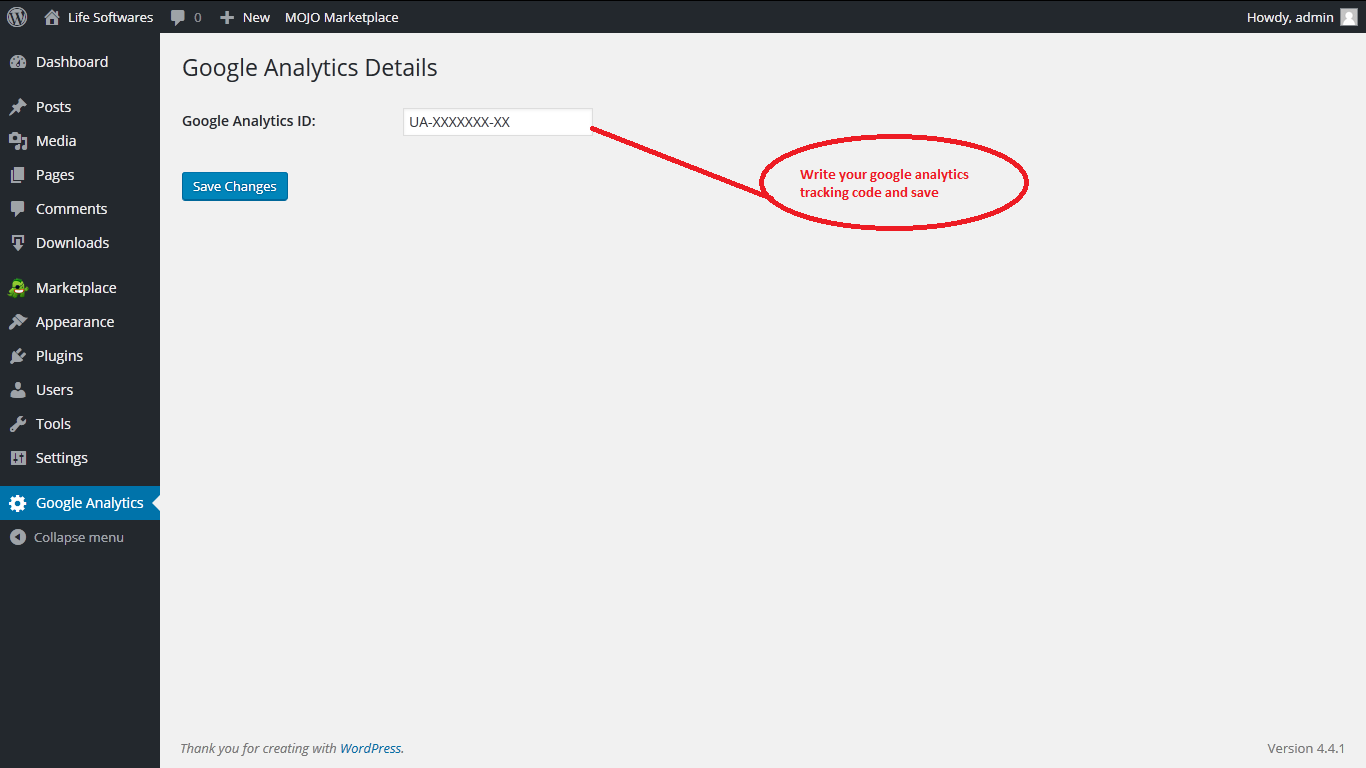
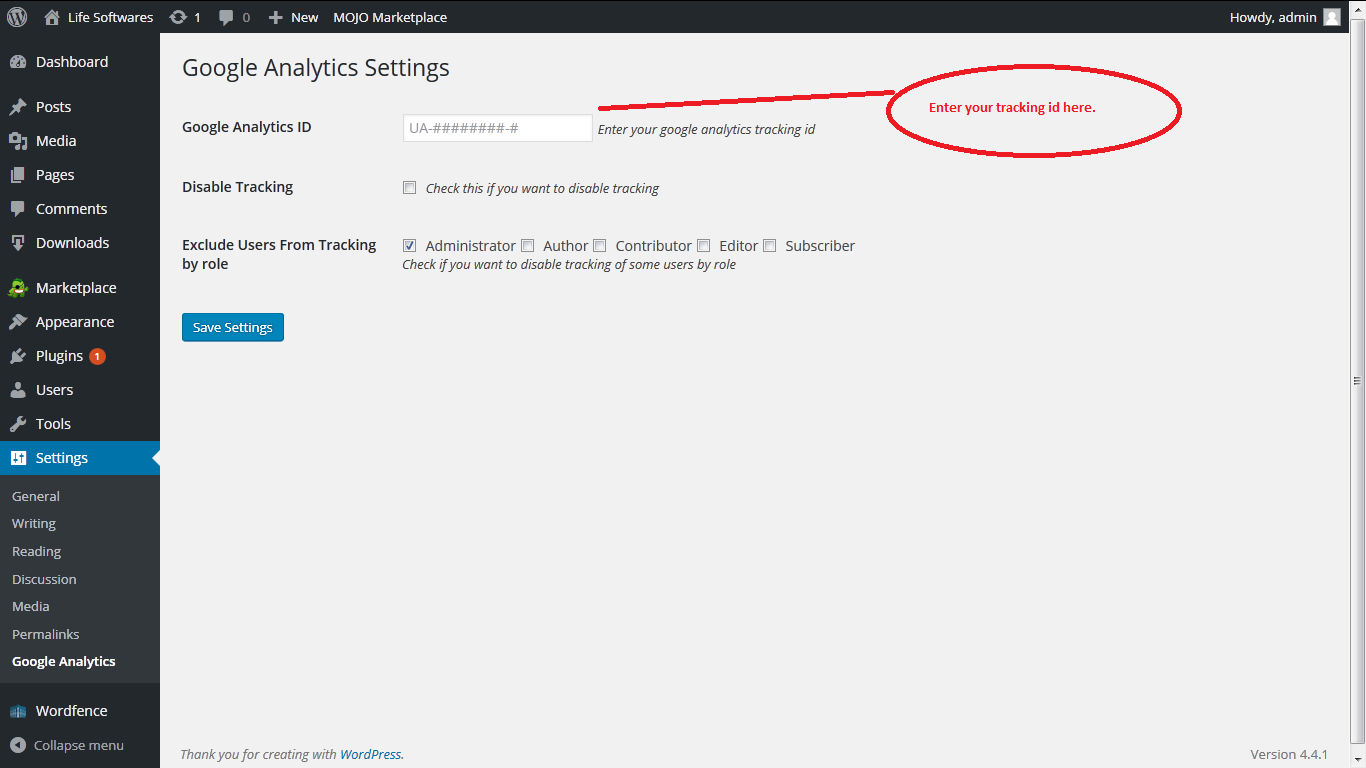
Update
git-svn-id: https://plugins.svn.wordpress.org/pc-google-analytics/trunk@1340473 b8457f37-d9ea-0310-8a92-e5e31aec5664

diff --git a/pc-google-analytics.php b/pc-google-analytics.php
@@ -1,77 +1,109 @@
 <?php
 /**
- * Plugin Name: Google Analytics
+ * Plugin Name: Google Analytics for WordPress
  * Plugin URI: https://wordpress.org/plugins/pc-google-analytics/
- * Description: Google analytics plugin adds the google tracking code on your website.
- * Version: 1.0.0
+ * Description: This Google Analytics for WordPress plugin adds and enables Google Analytics tracking code on your website.
+ * Version: 1.0.1
  * Author: praveenchauhan1984
  * Author URI: http://lifesoftwares.com/
+ * Requires at least: 4.0
+ * Tested up to: 4.0
+ *
+ * Text Domain: pc-google-analytics
+ * Domain Path: /lang/
  * License: GPL2
  */
- 
 
-add_action('admin_menu', 'pc_google_analytics_plugin_menu');
 
-function pc_google_analytics_plugin_menu() {
-	add_menu_page('Google Analytics', 'Google Analytics', 'administrator', 'pc-google-analytics-settings', 'pc_google_analytics_settings_page', 'dashicons-admin-generic');
+if ( ! defined( 'ABSPATH' ) ) exit;
+
+// Load plugin class files
+require_once( 'includes/class-pc-google-analytics.php' );
+require_once( 'includes/class-pc-google-analytics-settings.php' );
+
+// Load plugin libraries
+require_once( 'includes/lib/class-pc-google-analytics-admin-api.php' );
+
+/**
+ * Returns the main instance of Pc_Google_Analytics to prevent the need to use globals.
+ *
+ * @since  1.0.0
+ * @return object Pc_Google_Analytics
+ */
+function Pc_Google_Analytics () {
+	$instance = Pc_Google_Analytics::instance( __FILE__, '1.0.0' );
+
+	if ( is_null( $instance->settings ) ) {
+		$instance->settings = Pc_Google_Analytics_Settings::instance( $instance );
+	}
+
+	return $instance;
 }
 
+Pc_Google_Analytics();
 
 
-function pc_google_analytics_settings_page() {
-?>
-<div class="wrap">
-<h2><?php _e( 'Google Analytics Details', 'pc-google-analytics-plugin' ) ?></h2>
-
-<form method="post" action="options.php">
-    <?php settings_fields( 'pc-google-analytics-plugin-settings-group' ); ?>
-    <?php do_settings_sections( 'pc-google-analytics-plugin-settings-group' ); ?>
-    <table class="form-table">
-        
+function pc_google_analytics_front() { 
+         $flag=0;
+		 $user_ID = get_current_user_id();		 
+		 $analytics_id=  get_option( 'pcga_google_analytics_id' );
 		
-		 <tr valign="top">
-        <th scope="row">Google Analytics ID:</th>
-        <td><input type="text" name="google_analytics_id" placeholder="UA-########-#" value="<?php echo esc_attr( get_option('google_analytics_id') ); ?>" /></td>
-        </tr>
+		 $exclude_users=get_option('pcga_exclude_users');
+		 $disable_tracking=get_option('pcga_disable_tracking');
 		
 		
-    </table>
-    
-    <?php submit_button(); ?>
-
-</form>
-</div>
-
-<?php 
-  // 
-}
-
-add_action( 'admin_init', 'pc_google_analytics_plugin_settings' );
-
-function pc_google_analytics_plugin_settings() {
-	register_setting( 'pc-google-analytics-plugin-settings-group', 'google_analytics_id' );
+		
+		if ( is_user_logged_in() ) { 
+			$user = new WP_User( $user_ID );
+			if ( !empty( $user->roles ) && is_array( $user->roles ) ) {
+				foreach ( $user->roles as $role )
+					 $role;
+			}
+		}
+		
+		
+		
+		
+		 
+		 if(get_option('pcga_google_analytics_id')==''){
+		 	$flag=1; 
+		 }
+		 else if($disable_tracking=='on'){
+		 	$flag=1; 
+		 }
+		 
+		 if(!empty($exclude_users) && is_user_logged_in()){
+		 
+			 if (in_array('administrator',$exclude_users) && $role=='administrator' ) {
+				$flag=1; 
+			 }
+			 else if (in_array('author',$exclude_users) && $role=='author' ) {
+				$flag=1; 
+			 }
+			 else if (in_array('contributor',$exclude_users) && $role=='contributor' ) {
+				$flag=1; 
+			 }
+			 else if (in_array('editor',$exclude_users) && $role=='editor' ) {
+				$flag=1; 
+			 }
+			 else if (in_array('subscriber',$exclude_users) && $role=='subscriber' ) {
+				$flag=1; 
+			 }
+		 }
+		 
 	
-}
-
-
-
-function pc_google_analytics() { 
-        if(get_option('google_analytics_id')!=''){ ?>
+		 
+		 
+        if($flag!='1'){ ?>
 	<script>
 		(function(i,s,o,g,r,a,m){i['GoogleAnalyticsObject']=r;i[r]=i[r]||function(){
 		(i[r].q=i[r].q||[]).push(arguments)},i[r].l=1*new Date();a=s.createElement(o),
 		m=s.getElementsByTagName(o)[0];a.async=1;a.src=g;m.parentNode.insertBefore(a,m)
 		})(window,document,'script','//www.google-analytics.com/analytics.js','ga');
 		
-		ga('create', '<?php echo esc_attr( get_option('google_analytics_id') ); ?>', 'auto');
+		ga('create', '<?php echo esc_attr( get_option('pcga_google_analytics_id') ); ?>', 'auto');
 		ga('send', 'pageview');
 		
 		</script>
 <?php } } 
-add_action( 'wp_head', 'pc_google_analytics', 10 );
-
-
-
-
-
-
+add_action( 'wp_head', 'pc_google_analytics_front', 10 );
